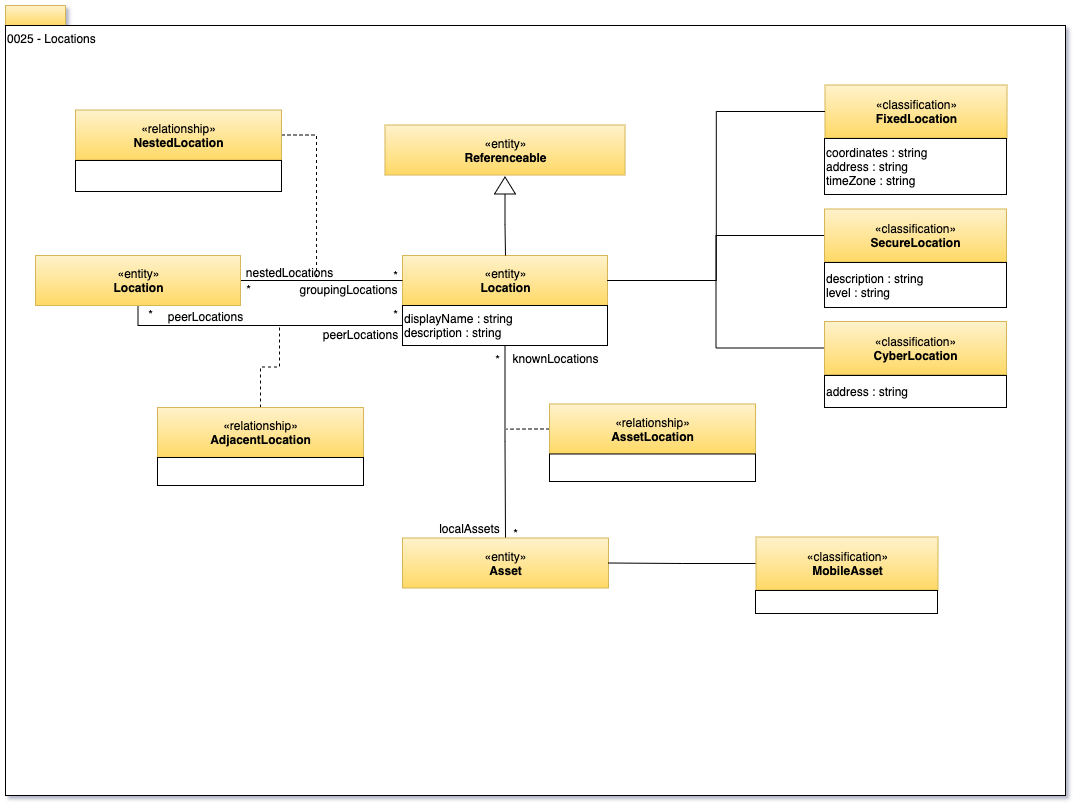
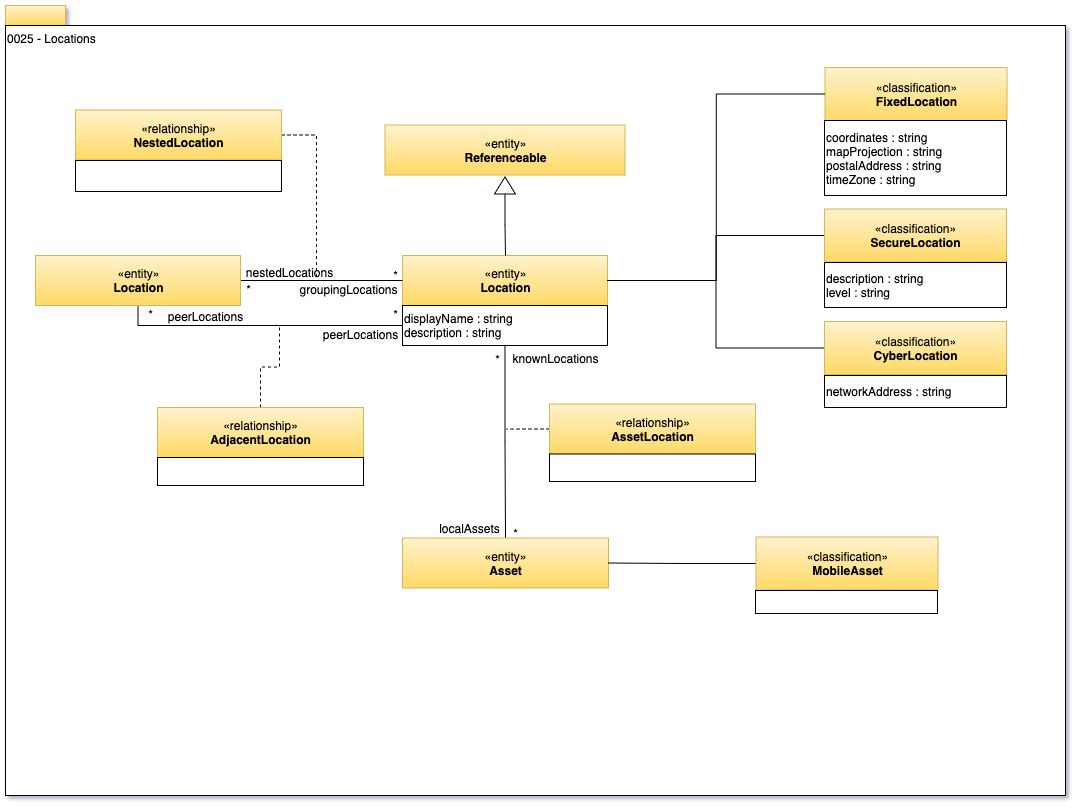
Clean up infrastructure types

Changed region(s): [[0.7625, 0.0616, 0.9455, 0.2463], [0.7625, 0.4618, 0.8845, 0.4926]]

diff --git a/open-metadata-resources/open-metadata-archives/open-metadata-types/src/main/java/org/odpi/openmetadata/opentypes/OpenMetadataTypesArchive.java b/open-metadata-resources/open-metadata-archives/open-metadata-types/src/main/java/org/odpi/openmetadata/opentypes/OpenMetadataTypesArchive.java
@@ -155,7 +155,127 @@ public class OpenMetadataTypesArchive
         /*
          * Calls for new and changed types go here
          */
+        update0025Locations();
+        update0030HostsAndOperatingPlatforms();
+        update0050Applications();
+    }
 
+
+    /*
+     * -------------------------------------------------------------------------------------------------------
+     */
+
+    private void update0025Locations()
+    {
+        this.archiveBuilder.addTypeDefPatch(updateFixedLocation());
+        this.archiveBuilder.addTypeDefPatch(updateCyberLocation());
+    }
+
+
+    private TypeDefPatch updateFixedLocation()
+    {
+        final String typeName = "FixedLocation";
+
+        TypeDefPatch typeDefPatch = archiveBuilder.getPatchForType(typeName);
+
+        typeDefPatch.setUpdatedBy(originatorName);
+        typeDefPatch.setUpdateTime(creationDate);
+
+        /*
+         * Build the attributes
+         */
+        List<TypeDefAttribute> properties = new ArrayList<>();
+        TypeDefAttribute       property;
+
+        final String attribute1Name            = "address";
+        final String attribute1Description     = "Postal address of the location (Deprecated).";
+        final String attribute1DescriptionGUID = null;
+        final String attribute2Name            = "postalAddress";
+        final String attribute2Description     = "Postal address of the location.";
+        final String attribute2DescriptionGUID = null;
+        final String attribute3Name            = "mapProjection";
+        final String attribute3Description     = "The scheme used to define the meaning of the coordinates.";
+        final String attribute3DescriptionGUID = null;
+
+        property = archiveHelper.getStringTypeDefAttribute(attribute1Name,
+                                                           attribute1Description,
+                                                           attribute1DescriptionGUID);
+        property.setAttributeStatus(TypeDefAttributeStatus.DEPRECATED_ATTRIBUTE);
+        properties.add(property);
+        property = archiveHelper.getStringTypeDefAttribute(attribute2Name,
+                                                           attribute2Description,
+                                                           attribute2DescriptionGUID);
+        properties.add(property);
+        property = archiveHelper.getStringTypeDefAttribute(attribute3Name,
+                                                           attribute3Description,
+                                                           attribute3DescriptionGUID);
+        properties.add(property);
+
+        typeDefPatch.setPropertyDefinitions(properties);
+
+        return typeDefPatch;
+    }
+
+    private TypeDefPatch updateCyberLocation()
+    {
+        final String typeName = "CyberLocation";
+
+        TypeDefPatch typeDefPatch = archiveBuilder.getPatchForType(typeName);
+
+        typeDefPatch.setUpdatedBy(originatorName);
+        typeDefPatch.setUpdateTime(creationDate);
+
+        /*
+         * Build the attributes
+         */
+        List<TypeDefAttribute> properties = new ArrayList<>();
+        TypeDefAttribute       property;
+
+        final String attribute1Name            = "address";
+        final String attribute1Description     = "Address of the location (Deprecated).";
+        final String attribute1DescriptionGUID = null;
+        final String attribute2Name            = "networkAddress";
+        final String attribute2Description     = "Base network address used to connect to the location's endpoint(s).";
+        final String attribute2DescriptionGUID = null;
+
+        property = archiveHelper.getStringTypeDefAttribute(attribute1Name,
+                                                           attribute1Description,
+                                                           attribute1DescriptionGUID);
+        property.setAttributeStatus(TypeDefAttributeStatus.DEPRECATED_ATTRIBUTE);
+        properties.add(property);
+        property = archiveHelper.getStringTypeDefAttribute(attribute2Name,
+                                                           attribute2Description,
+                                                           attribute2DescriptionGUID);
+        properties.add(property);
+
+        typeDefPatch.setPropertyDefinitions(properties);
+
+        return typeDefPatch;
+    }
+
+    /*
+     * -------------------------------------------------------------------------------------------------------
+     */
+
+    /**
+     * The HostLocation relationship is superfluous - can use AssetLocation since Host is an Asset
+     */
+    private void update0030HostsAndOperatingPlatforms()
+    {
+        this.archiveBuilder.addTypeDefPatch(deprecateHostLocation());
+    }
+
+    private TypeDefPatch deprecateHostLocation()
+    {
+        final String typeName = "HostLocation";
+
+        TypeDefPatch typeDefPatch = archiveBuilder.getPatchForType(typeName);
+
+        typeDefPatch.setUpdatedBy(originatorName);
+        typeDefPatch.setUpdateTime(creationDate);
+        typeDefPatch.setTypeDefStatus(TypeDefStatus.DEPRECATED_TYPEDEF);
+
+        return typeDefPatch;
     }
 
 
@@ -164,5 +284,25 @@ public class OpenMetadataTypesArchive
      */
 
 
+    /**
+     * The RuntimeForProcess relationship is superfluous - can use ServerAssetUse since Application is a SoftwareServerCapability.
+     */
+    private void update0050Applications()
+    {
+        this.archiveBuilder.addTypeDefPatch(deprecateRuntimeForProcess());
+    }
+
+    private TypeDefPatch deprecateRuntimeForProcess()
+    {
+        final String typeName = "RuntimeForProcess";
+
+        TypeDefPatch typeDefPatch = archiveBuilder.getPatchForType(typeName);
+
+        typeDefPatch.setUpdatedBy(originatorName);
+        typeDefPatch.setUpdateTime(creationDate);
+        typeDefPatch.setTypeDefStatus(TypeDefStatus.DEPRECATED_TYPEDEF);
+
+        return typeDefPatch;
+    }
 }
 

diff --git a/open-metadata-publication/website/open-metadata-types/0025-Locations.md b/open-metadata-publication/website/open-metadata-types/0025-Locations.md
@@ -19,9 +19,19 @@ The AdjacentLocation relationship links locations that touch one another.
 The notion of a location is variable and the classifications FixedLocation,
 SecureLocation and CyberLocation help to clarify the nature of the location.
 
-* FixedLocation means that the location represents a physical place where, for example, Hosts (see 0030 below), servers (see 0040 below) and hence data may be located.  This could be an area of a data center, the building the data center is located in, or even the country where the server/data is located.
-* SecureLocation indicates that there is restricted access to the location.
-* CyberLocation means that the location describes something in cyber space.
+* **FixedLocation** means that the location represents a physical place where,
+for example, Hosts (see 0030 below), servers (see 0040 below) and hence data may be located. 
+This could be an area of a data center, the building the data center is located in,
+or even the country where the server/data is located.
+The physical location may be defined using a postal address or coordinates.
+The coordinates should be accompanied by the type of map projection used.
+For example, Goode's Homolosine Equal Area Projection,
+Mercator Projection, Gall-Peters Projection, Miller Cylindrical Projection, Mollweide Projection,
+Sinusoidal EqualArea Projection or Robinson Projection.
+* **SecureLocation** indicates that there is restricted access to the location.
+This can include a description of the type of security.
+* **CyberLocation** means that the location describes something in cyber space.  It may
+include the network address of this location.
 
 
 Return to [Area 0](Area-0-models.md).

diff --git a/open-metadata-publication/website/open-metadata-types/0030-Hosts-and-Platforms.md b/open-metadata-publication/website/open-metadata-types/0030-Hosts-and-Platforms.md
@@ -8,12 +8,14 @@ IT infrastructure (nodes, computers, etc) that data resources are hosted on.
 
 ![UML](0030-Hosts-and-Platforms.png#pagewidth)
 
-A Host is an IT Infrastructure concept associated with the hardware running the systems.
+**ITInfrastructure** is a type of [Asset](0010-Base-Model.md).
+
+A **Host** is an IT Infrastructure concept associated with the hardware running the systems.
 It provides a mechanism for describing a unit of hardware that provides the ability to host software servers.
 
-The host can be linked to its location through the HostLocation relationship.
+The host can be linked to its location through the [AssetLocation](0025-Locations.md) relationship.
 
-The operating platform is an informational structure to describe the
+The **OperatingPlatform** is an informational structure to describe the
 operating system of the host.
 Many hosts could have the same operating platform.
 

diff --git a/open-metadata-publication/website/open-metadata-types/0050-Applications-and-Processes.md b/open-metadata-publication/website/open-metadata-types/0050-Applications-and-Processes.md
@@ -5,9 +5,7 @@
 
 Applications provide business or management logic.
 They are often custom built but may also be brought as a package.
-They are deployed onto a server.
-Some applications are written to support specific processes.
-Model 0050 shows how applications relate to processes and the servers that host them.
+They are deployed onto a server as a [SoftwareServerCapability](0042-Software-Server-Capabilities.md).
 
 ![UML](0050-Applications-and-Processes.png#pagewidth)
 
